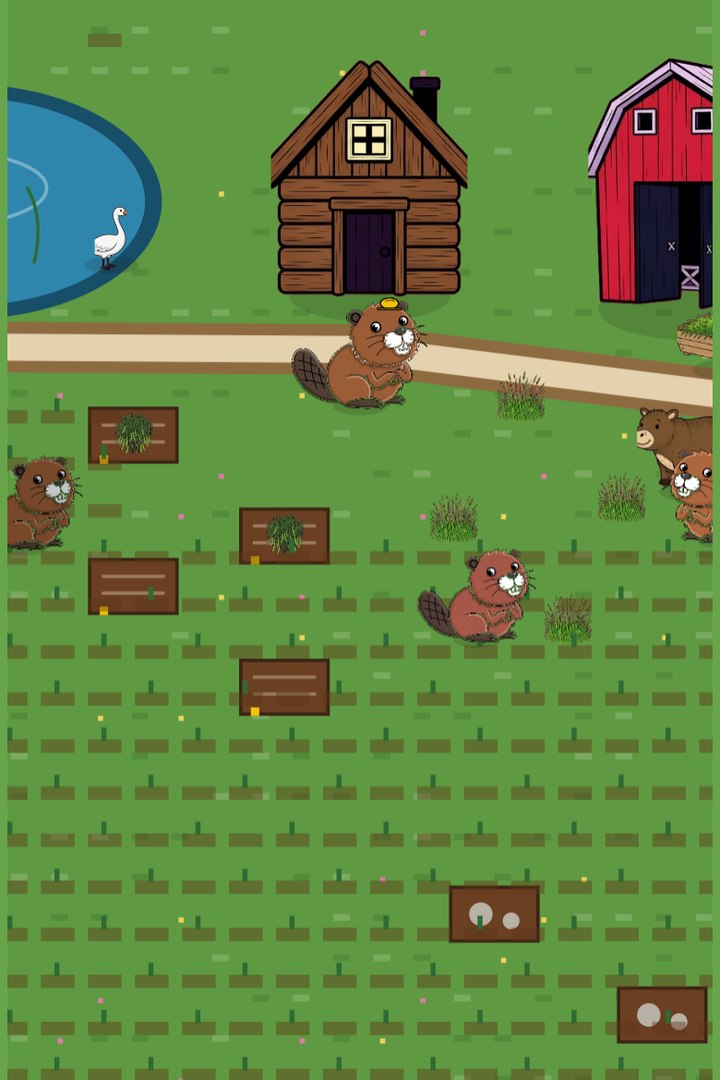
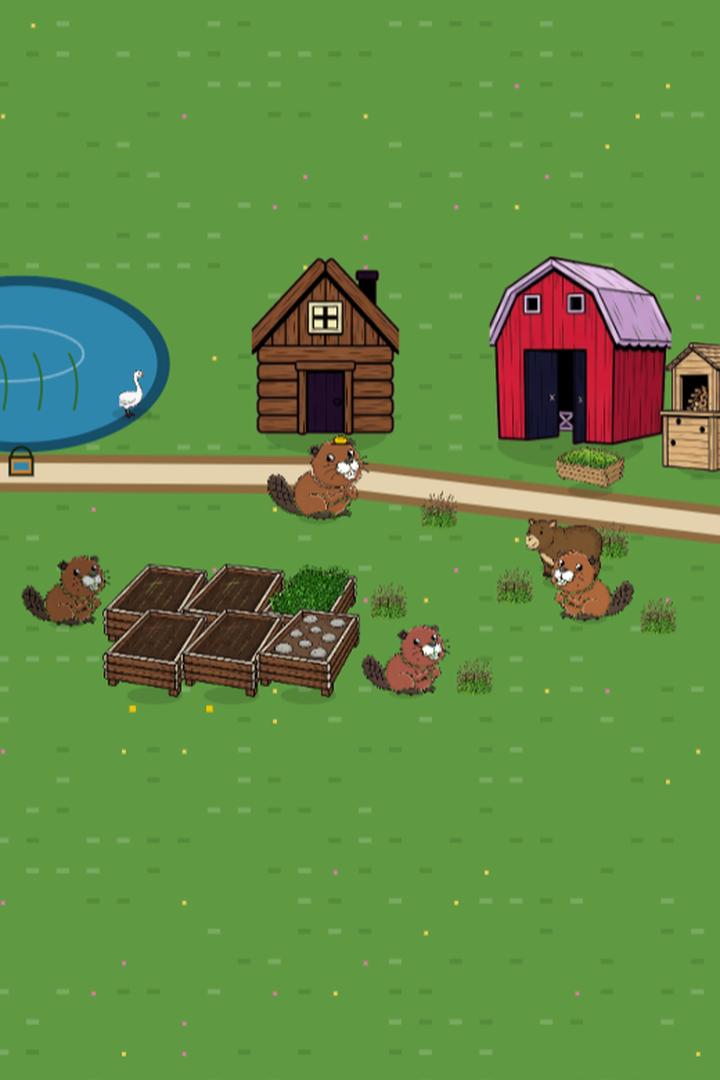
Show the Willow Cut yard, with the lodge and packed beds, on the hub card.

diff --git a/index.html b/index.html
@@ -167,7 +167,7 @@
         </div>
       </a>
       <a class="card" href="https://ccosma1.github.io/bober-frost-lodge/">
-        <img src="assets/cards/willow-cut.png?v=wc3" alt="" />
+        <img src="assets/cards/willow-cut.png?v=wc4" alt="" />
         <div class="body">
           <h3>Bober Willow Cut <span class="badge updated">UPDATED</span></h3>
           <p class="kind">Farm / willow bank</p>
